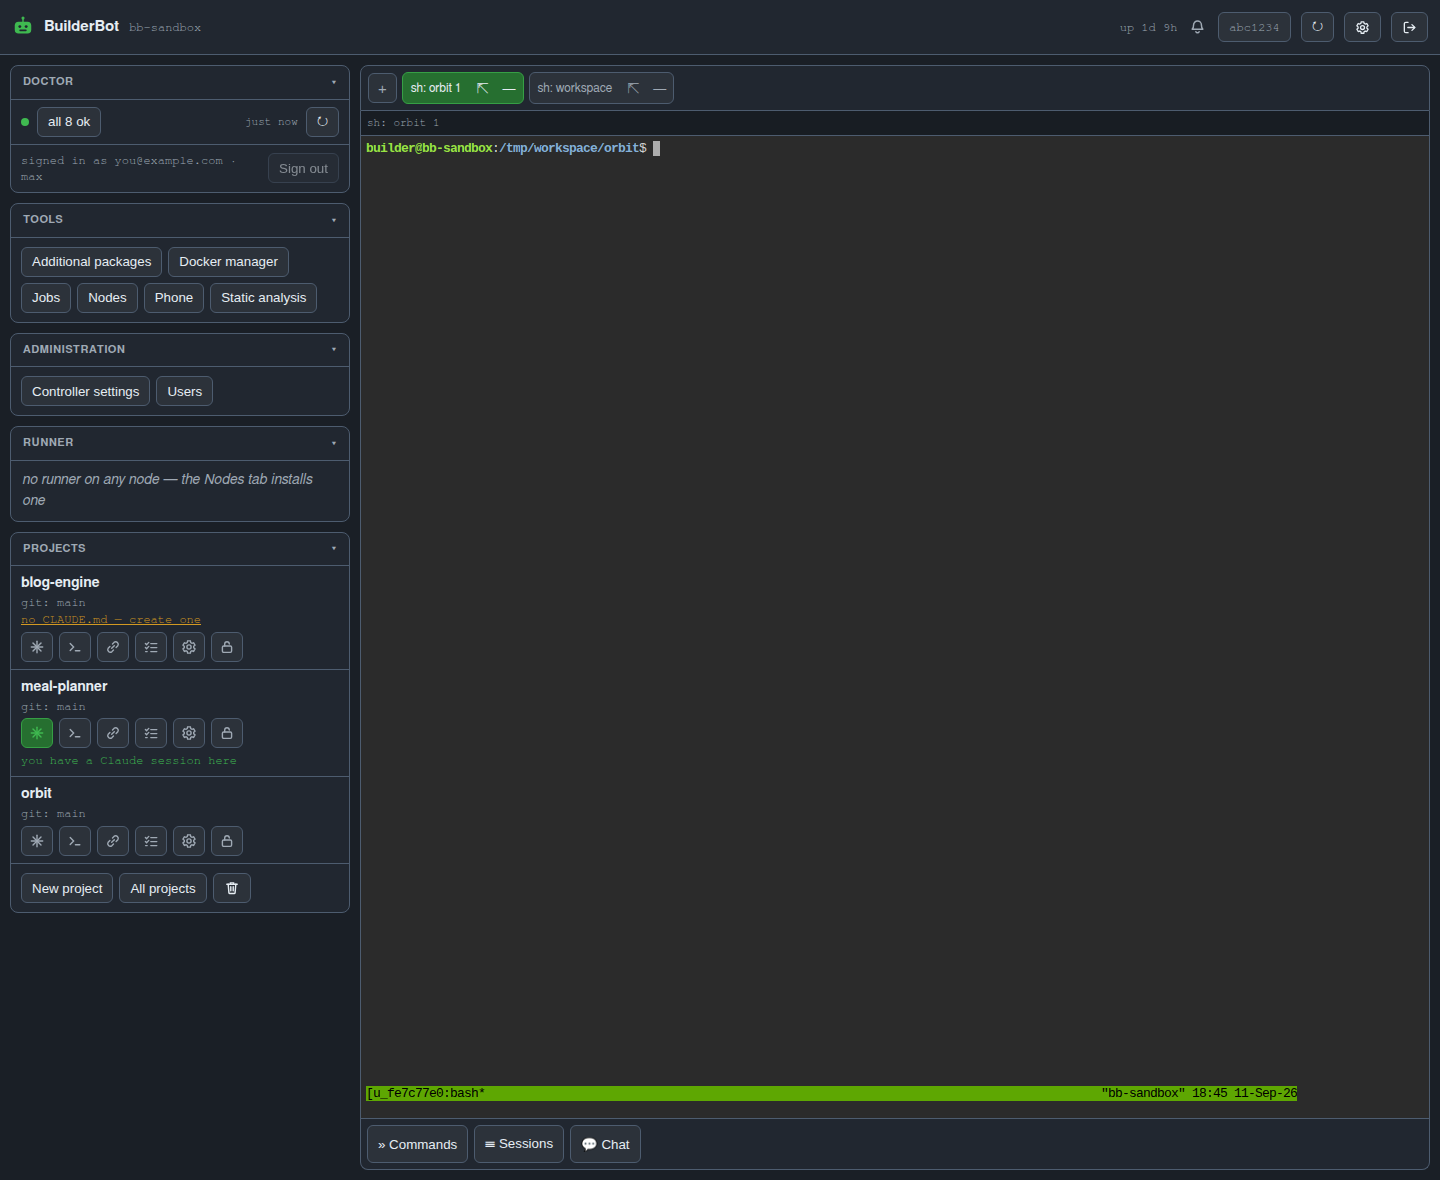
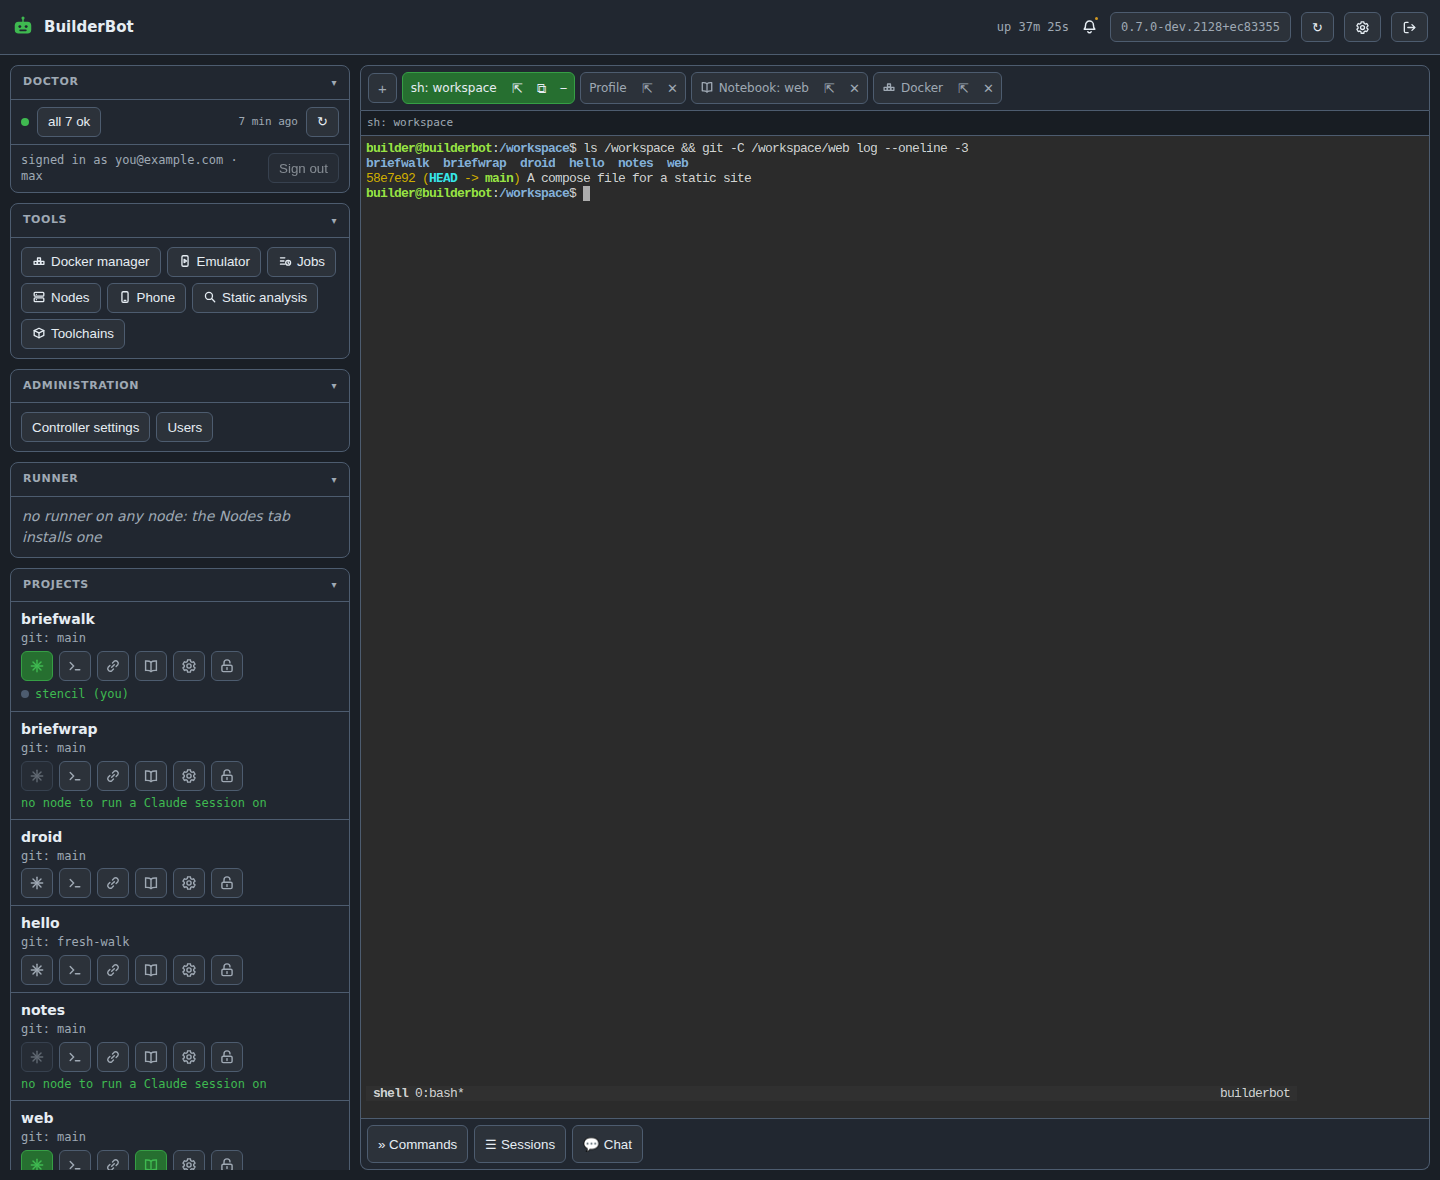
The README's pictures, retaken from the dev dashboard
Taken by tools/readme-shots-live.mjs, which photographs a dashboard that is
already running: the default scheme for the shot only, every address on the
page rewritten to an example one (and the shot refused while another is
left), the terminal cleared first, and nothing of the account's saved. The
address and credential come from the environment.

Claude-Session: https://claude.ai/code/session_01G6iUPRzoJRfbfo2GdZ1FKR

diff --git a/docs/layout.md b/docs/layout.md
@@ -170,6 +170,7 @@ config/icon.png                  the icon the Unraid template shows
 config/toolchains.json           the toolchains the Toolchains tab offers, and how to install each
 config/templates/                briefing.md, assembled per session by preamble.py; nothing is copied into a project
 tools/readme-shots.sh            regenerates the pictures above from a staged dashboard
+tools/readme-shots-live.mjs      the same three pictures from a running dashboard: default scheme, addresses scrubbed, nothing saved
 tools/readme-bb-ref.sh           writes the README's bb reference from bb help; bb lint holds the two equal
 tools/api-doc.py                 writes docs/api.md from server.py's route tables; bb lint holds the two equal
 tools/check-sysdeps.py           checks every recipe's system packages against each distribution's package index
@@ -189,7 +190,7 @@ docs/how-it-works.md             the controller, the nodes, the sessions, the da
 docs/decisions.md                the design decisions, with their dates and reasons
 docs/layout.md                   this list, held to the tree by bb lint
 docs/changelog-0.5.md            the releases before 0.6, moved out of CHANGELOG.md so the file the dashboard reads stays the current series
-docs/screenshots/                the README's pictures, regenerated by tools/readme-shots.sh
+docs/screenshots/                the README's pictures, regenerated by tools/readme-shots.sh or tools/readme-shots-live.mjs
 docs/start-here.md               the one page for somebody given an account on somebody else's BuilderBot
 docs/journeys.md                 what a person does with BuilderBot, walked for real, dated
 docs/sandbox-vm.md               the Docker sandbox VM: why, how, and pointing this at it
